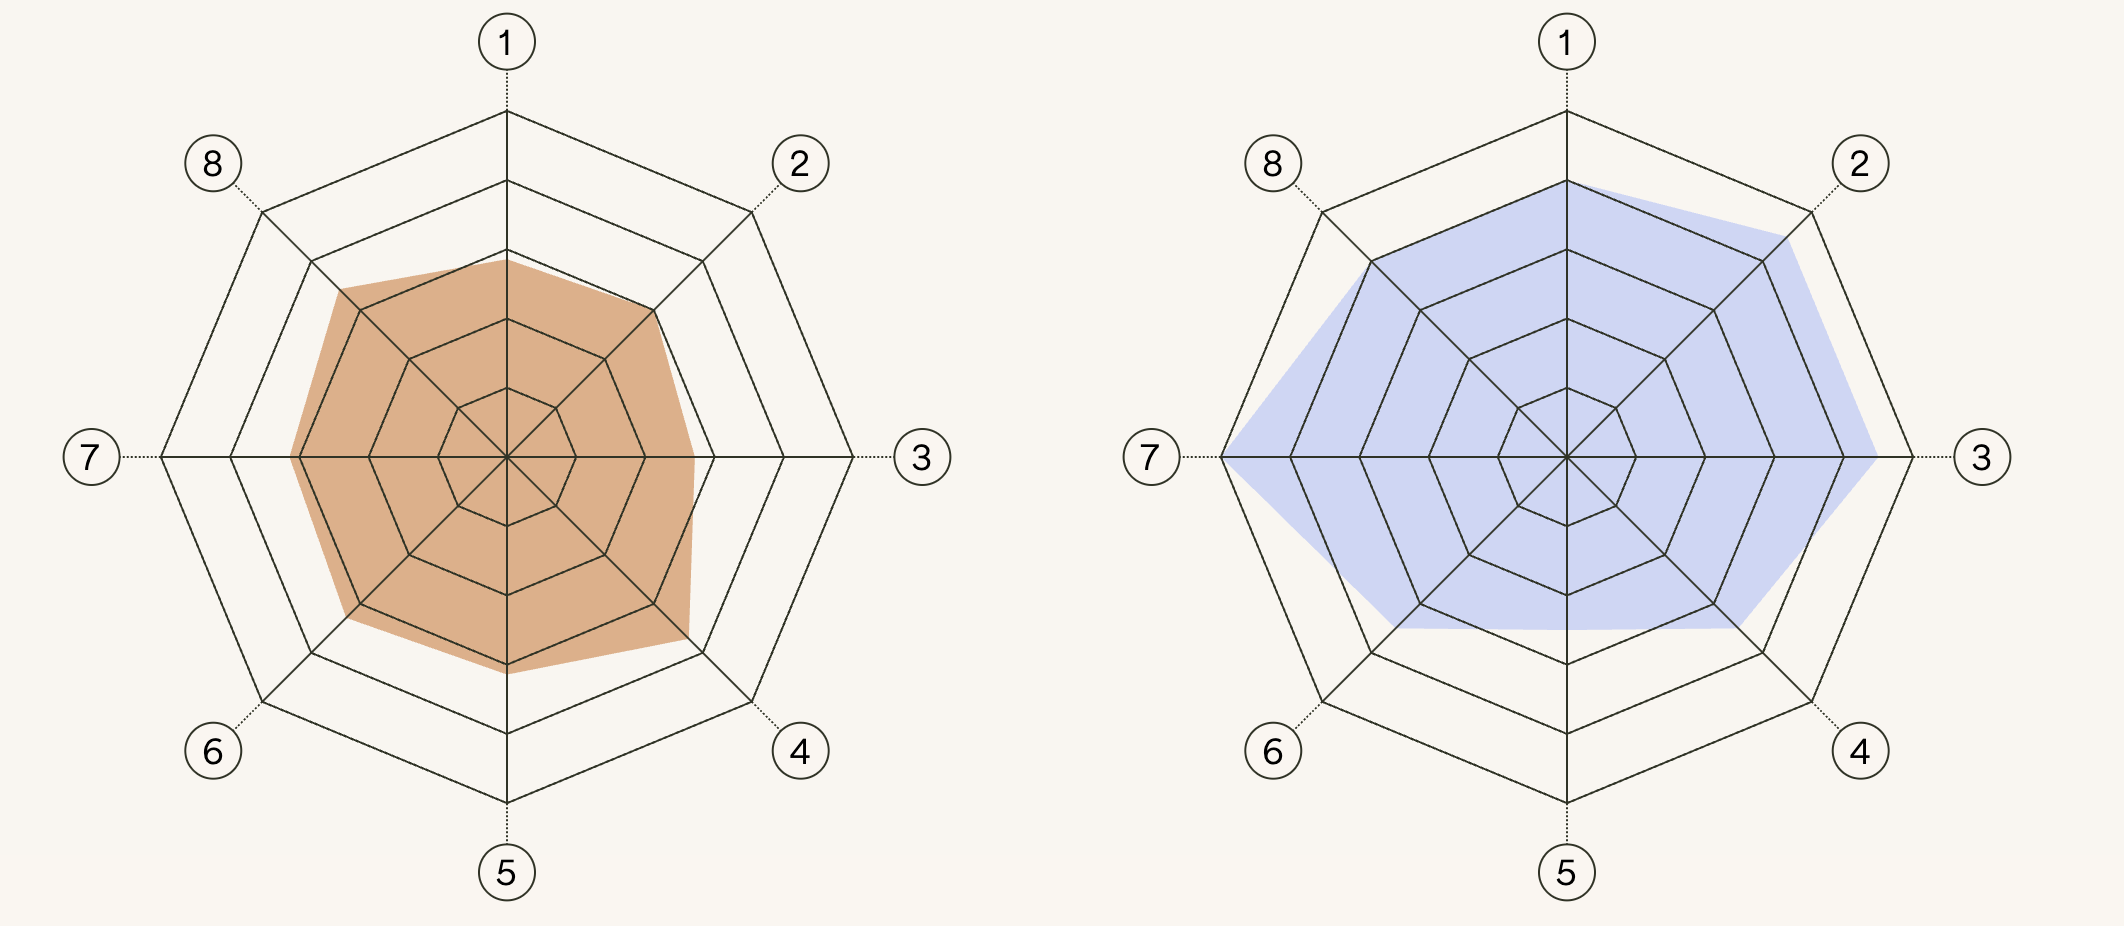
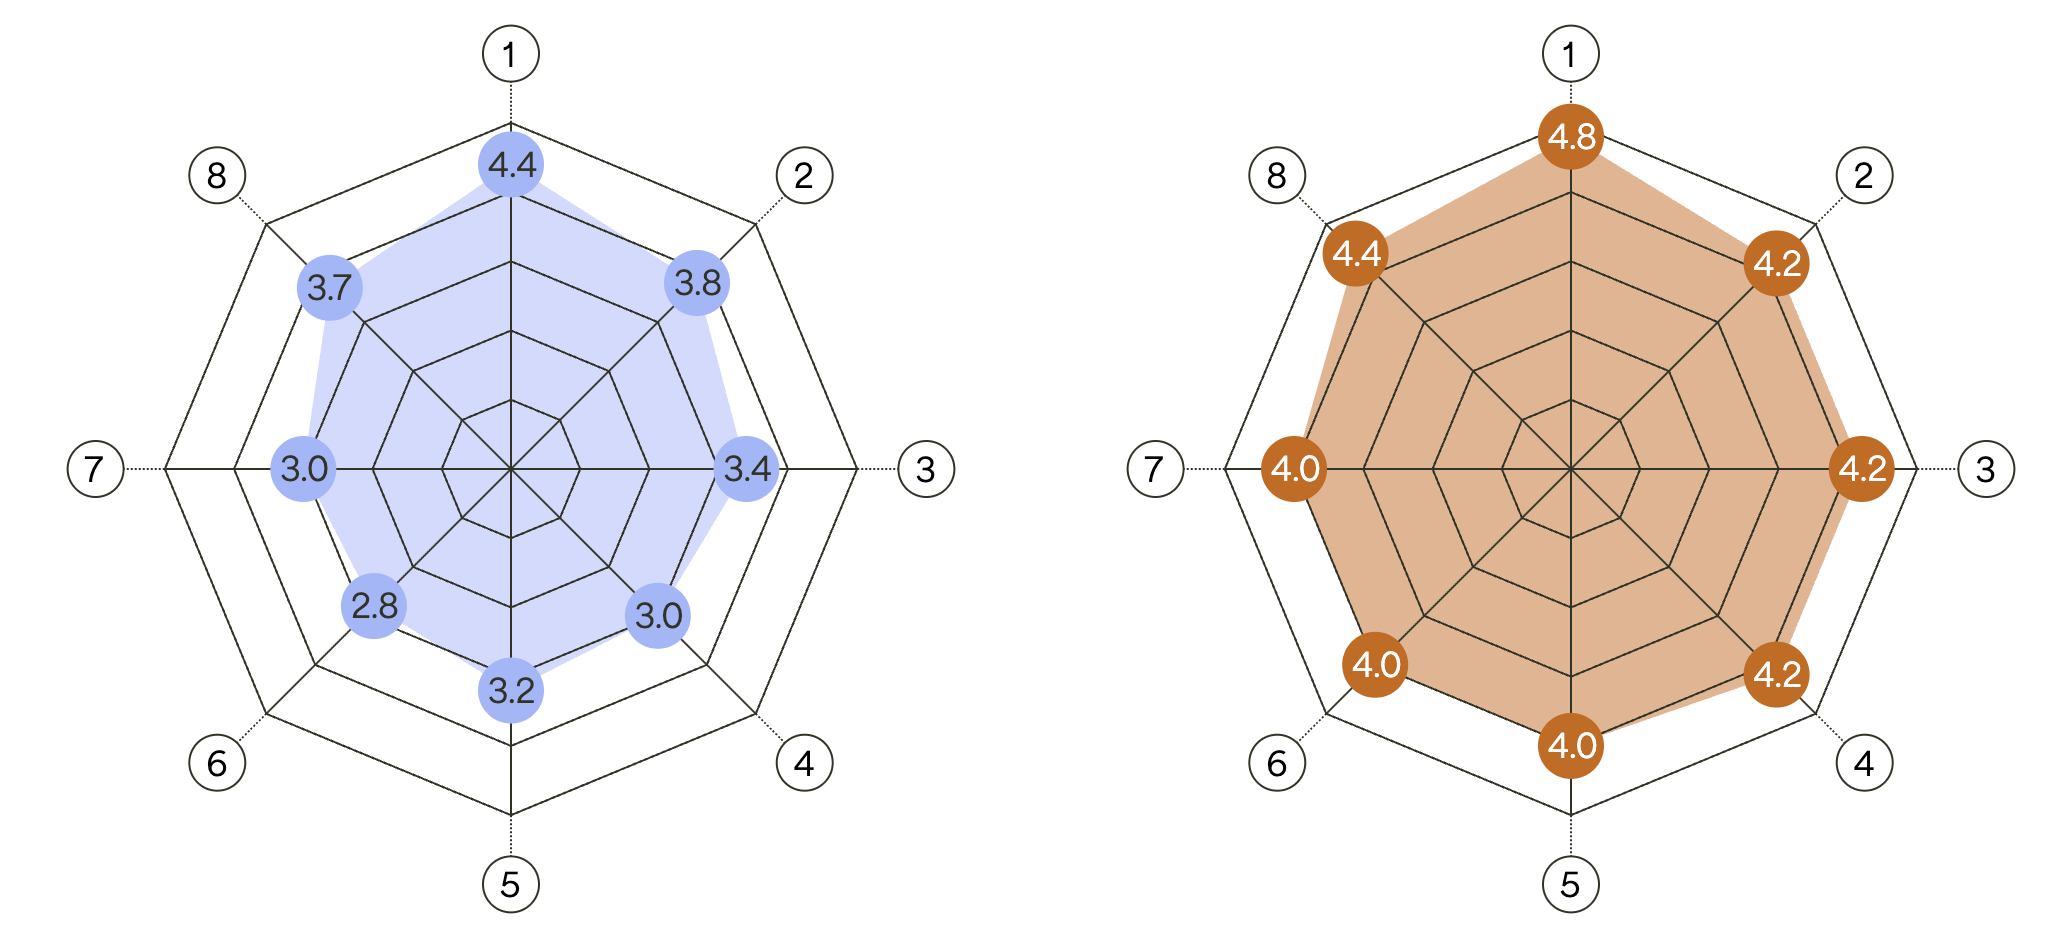
feat/styling tweaks

diff --git a/src/routes/(management)/admin/(authenticated)/+page.svelte b/src/routes/(management)/admin/(authenticated)/+page.svelte
@@ -63,10 +63,21 @@
 	<p>Loading statistics ...</p>
 {:then data}
 	<p></p>
+	<!-- D1: 4.4 > 4.8
+D2: 3.8 > 4.2
+D3: 3.4 > 4.2
+D4: 3.0 > 4.2
+D5: 3.2 > 4.0
+D6: 2.8 > 4.0
+D7: 3.0 > 4.0
+D8: 3.7 > 4.4 -->
+
 	{#if data?.stats?.length > 0 && data.totalAverageStart?.[0] && data.totalAverageEnd?.[0]}
+		{@const totalAverageStart = [4.4, 3.8, 3.4, 3.0, 3.2, 2.8, 3.0, 3.7]}
+		{@const totalAverageEnd = [4.8, 4.2, 4.2, 4.2, 4.0, 4.0, 4.0, 4.4]}
 		<AdminAnswerComparison
-			startAnswers={formatAveragedAnsers(data.totalAverageStart)}
-			endAnswers={formatAveragedAnsers(data.totalAverageEnd)}
+			startAnswers={formatAveragedAnsers(totalAverageStart)}
+			endAnswers={formatAveragedAnsers(totalAverageEnd)}
 			averagedStartResults={data.totalAverageStart}
 			averagedEndResults={data.totalAverageEnd}
 		/>

diff --git a/src/routes/(management)/presenter/(authenticated)/+page.svelte b/src/routes/(management)/presenter/(authenticated)/+page.svelte
@@ -68,7 +68,7 @@
 			For each group you facilitate, you'll be able to visually compare the growth before and after
 			your work together.
 		</p>
-		<img class="intro" src={charts} alt="Two spider charts, showing growth" />
+		<img class="intro chart-fade-in" src={charts} alt="Two spider charts, showing growth" />
 		<button class="btn primary" onclick={() => (showNewGroupModal = true)}
 			>Create Your First Group</button
 		>
@@ -77,7 +77,8 @@
 
 <style>
 	.intro-wrapper {
-		min-height: 87vh;
+		padding: 60px 0px;
+		/* height: 88vh; */
 		display: flex;
 		flex-direction: column;
 		justify-content: center;
@@ -87,7 +88,7 @@
 		margin-top: 0px;
 	}
 	img.intro {
-		width: 600px;
+		width: 800px;
 		max-width: 100%;
 		margin: 20px 0px;
 		margin-bottom: 40px;

diff --git a/src/lib/styles/app.css b/src/lib/styles/app.css
@@ -10,6 +10,7 @@
 
 	/* Climate Wayfinding Guide Colors */
 	--cloud: #faf6f0;
+	/* --cloud: #faf6f0; */
 	--cloud-light: #fdfbf7;
 	--cloud-dark: #eae4db;
 	--onyx: #2f3325;
@@ -245,12 +246,14 @@ a.short {
 	font-size: 16px;
 	text-wrap: nowrap;
 	padding: 6px 10px;
-	transition: all 0.2s linear;
+	font-style: normal;
+	/* transition: all 0.2s linear; */
 }
 
 .btn.tertiary:hover {
-	border-bottom: 3px solid var(--onyx);
-	padding-bottom: 3px;
+	font-style: italic;
+	/* border-bottom: 3px solid var(--onyx);
+	padding-bottom: 3px; */
 }
 
 .link-like {
